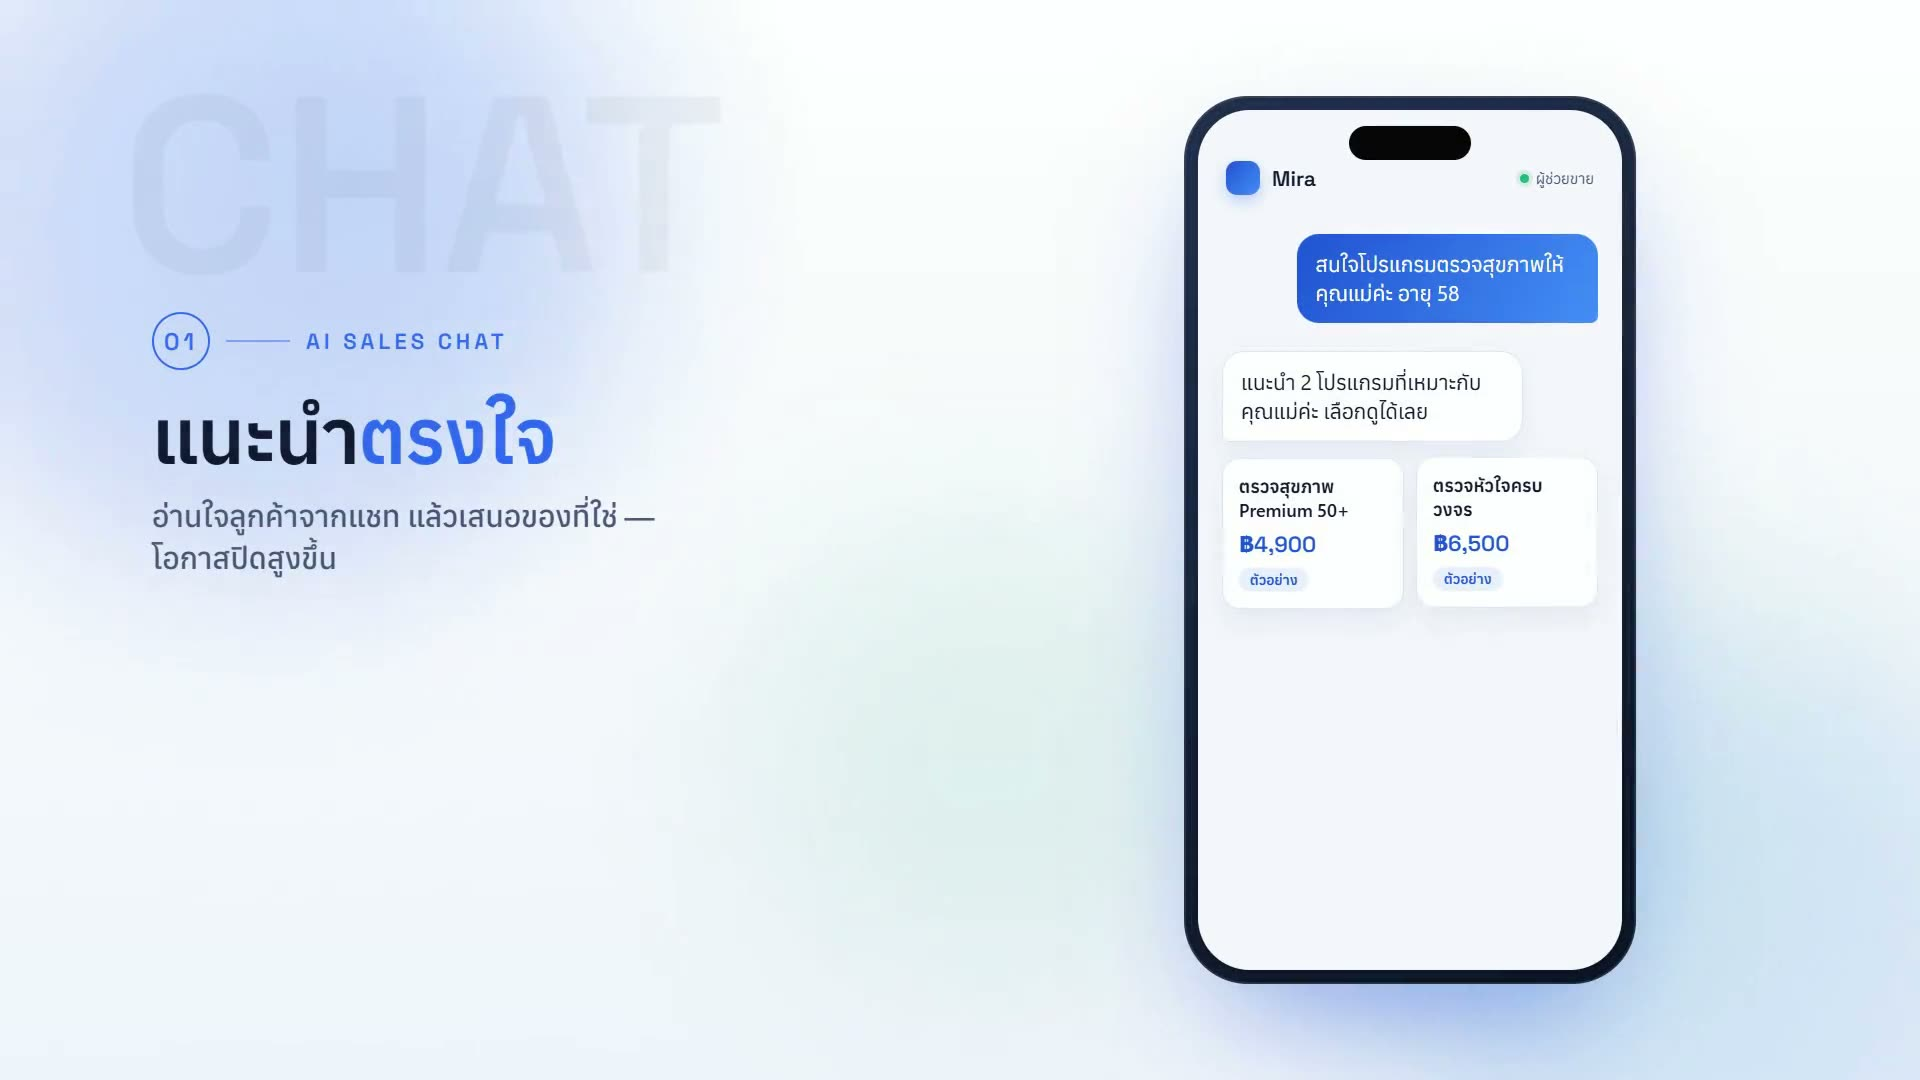
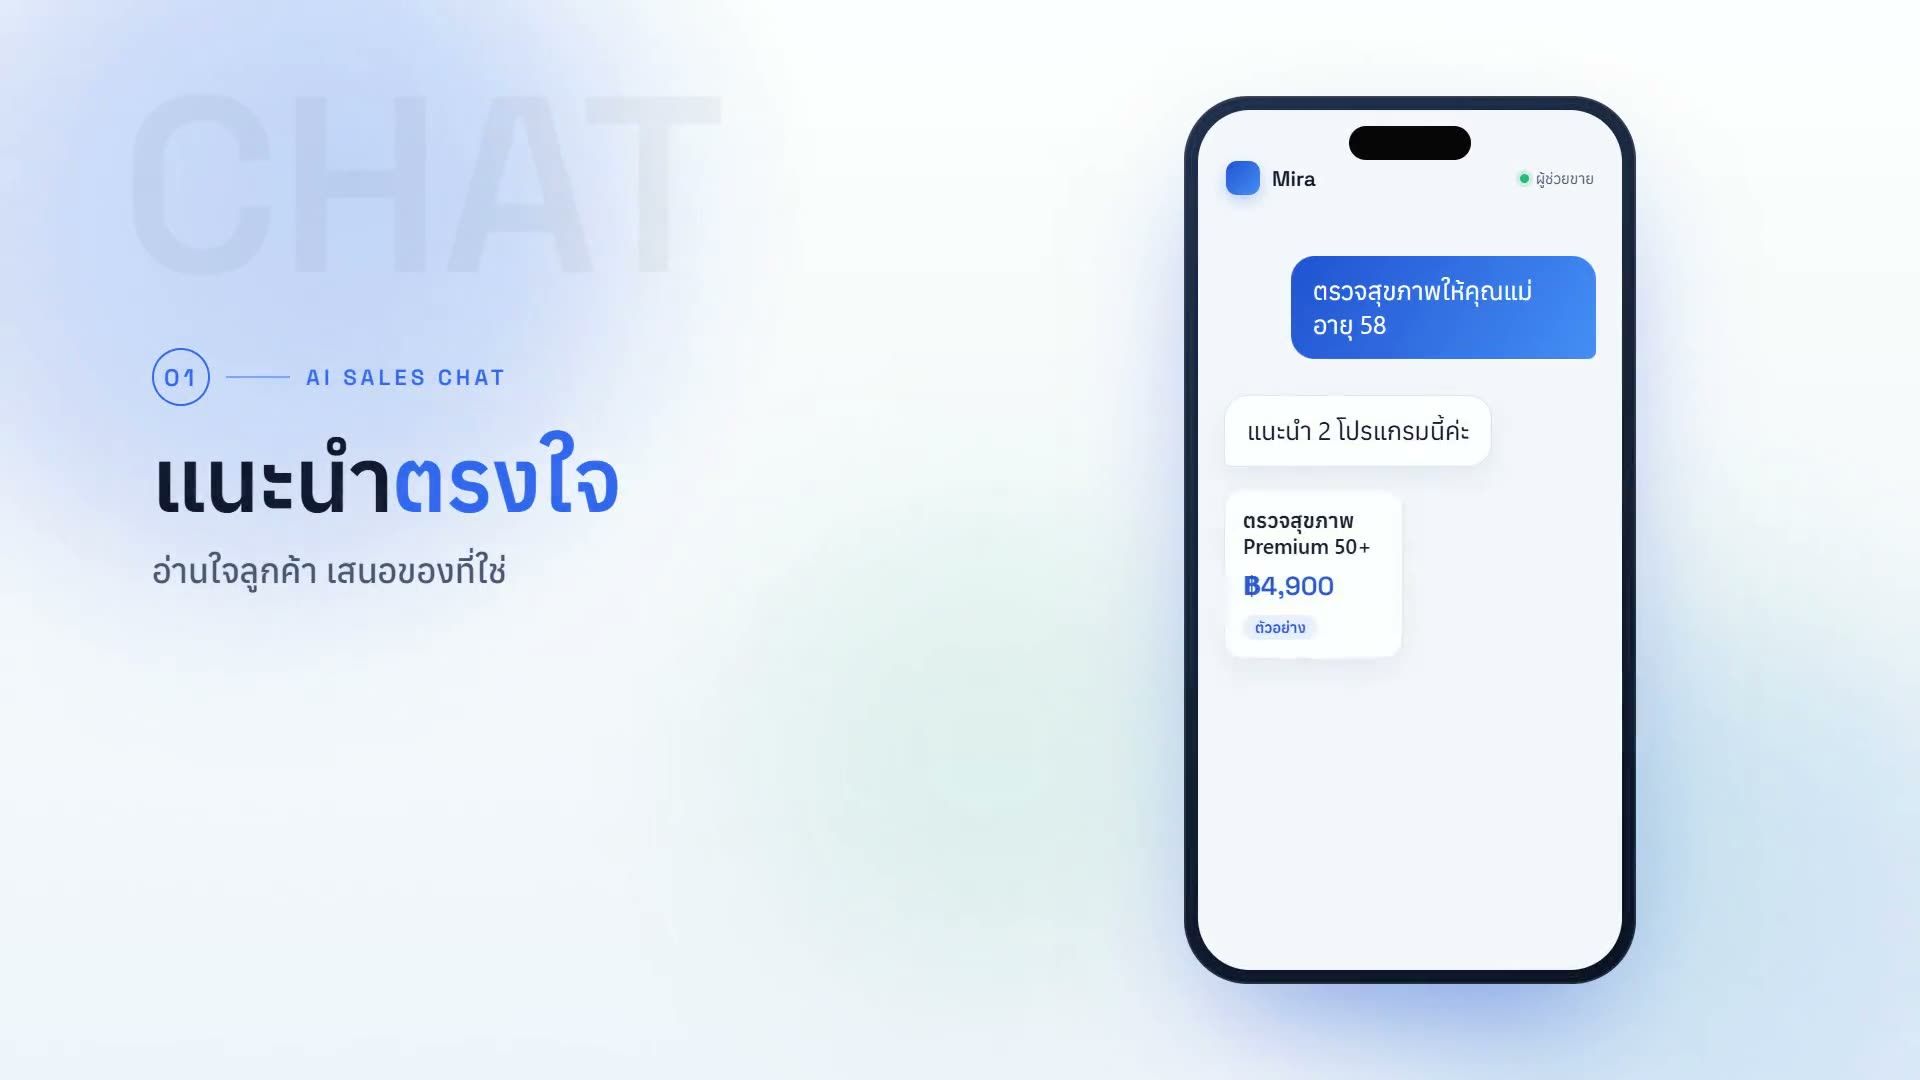
Trim section-2 video text to minimal + slow pacing 50% (16s->32s)
Owner feedback: on-screen phone copy was too dense to read and the clip ran too fast. Shortened the chat/order/catalog strings (dropped the extra pay bubble, cut verbose lines), bumped on-screen type sizes, and scaled the whole GSAP timeline x2 via an S factor so it reads at half speed. Re-rendered mp4 (791KB) + webm + poster (poster now at the recommend beat ~7.8s).

Changed region(s): [[0.0625, 0.3056, 0.3438, 0.55], [0.625, 0.2139, 0.8438, 0.6111], [0.75, 0.4278, 0.8125, 0.55]]

diff --git a/website/motion/compositions/ai-chat-story.html b/website/motion/compositions/ai-chat-story.html
@@ -33,19 +33,19 @@
         font-size: 250px; line-height: 0.8; letter-spacing: -2px; color: rgba(16, 26, 51, 0.045); pointer-events: none; }
 
       /* ---------- left story column ---------- */
-      .story { position: absolute; left: 152px; top: 312px; width: 660px; }
+      .story { position: absolute; left: 152px; top: 348px; width: 660px; }
       .step { position: absolute; left: 0; top: 0; width: 100%; }
       .step-kicker { display: flex; align-items: center; gap: 16px; font-family: 'Space Grotesk', sans-serif;
         font-weight: 600; letter-spacing: 4px; font-size: 22px; color: var(--brand); text-transform: uppercase; }
       .step-num { display: grid; place-items: center; width: 58px; height: 58px; border-radius: 50%;
         border: 2px solid var(--brand); color: var(--brand); font-size: 24px; }
       .step-rule { width: 64px; height: 2px; background: var(--brand); opacity: 0.5; }
-      .step-title { margin: 26px 0 0; font-size: 76px; line-height: 1.04; font-weight: 600; letter-spacing: -1px; }
+      .step-title { margin: 28px 0 0; font-size: 88px; line-height: 1.04; font-weight: 600; letter-spacing: -1px; }
       .step-title .hl { color: var(--brand); }
-      .step-sub { margin: 20px 0 0; font-size: 30px; line-height: 1.4; font-weight: 500; color: var(--ink-soft); width: 540px; }
+      .step-sub { margin: 22px 0 0; font-size: 34px; line-height: 1.35; font-weight: 500; color: var(--ink-soft); }
 
-      .payoff { position: absolute; left: 152px; top: 760px; display: flex; align-items: center; gap: 14px;
-        font-family: 'Space Grotesk', sans-serif; font-weight: 600; font-size: 26px; letter-spacing: 1px; color: var(--ink-soft); opacity: 0; }
+      .payoff { position: absolute; left: 152px; top: 792px; display: flex; align-items: center; gap: 14px;
+        font-family: 'Space Grotesk', sans-serif; font-weight: 600; font-size: 28px; letter-spacing: 1px; color: var(--ink-soft); opacity: 0; }
       .payoff b { color: var(--deep); }
 
       /* ---------- phone ---------- */
@@ -63,85 +63,85 @@
       .brand-status { margin-left: auto; display: inline-flex; align-items: center; gap: 7px; font-size: 15px; color: var(--ink-soft); }
       .live-dot { width: 9px; height: 9px; border-radius: 50%; background: var(--mint); box-shadow: 0 0 0 4px rgba(31, 170, 120, 0.18); }
 
-      .view { position: absolute; left: 0; top: 96px; width: 100%; height: 778px; padding: 14px 24px 26px; }
+      .view { position: absolute; left: 0; top: 110px; width: 100%; height: 764px; padding: 18px 26px 28px; }
       .view-pay, .view-catalog { opacity: 0; }
 
       /* chat */
-      .bubble { max-width: 80%; padding: 16px 18px; font-size: 21px; line-height: 1.36; border-radius: 22px; }
-      .bubble.user { margin-left: auto; color: #fff; background: linear-gradient(120deg, var(--deep), var(--bright)); border-bottom-right-radius: 7px; }
-      .bubble.mira { background: var(--surface); border: 1px solid var(--line); border-bottom-left-radius: 7px; box-shadow: 0 12px 26px rgba(34, 68, 134, 0.08); }
-      .row { display: flex; margin-top: 14px; }
-      .typing { display: inline-flex; gap: 7px; align-items: center; padding: 18px 20px; background: var(--surface); border: 1px solid var(--line); border-radius: 22px; border-bottom-left-radius: 7px; }
-      .typing i { width: 9px; height: 9px; border-radius: 50%; background: var(--muted); display: block; }
-      .products { display: grid; grid-template-columns: 1fr 1fr; gap: 12px; margin-top: 16px; }
-      .pcard { padding: 16px; border-radius: 18px; background: var(--surface); border: 1px solid var(--line); box-shadow: 0 12px 26px rgba(34, 68, 134, 0.08); }
-      .pcard .pname { font-size: 18px; font-weight: 600; line-height: 1.3; }
-      .pcard .pprice { margin-top: 8px; font-family: 'Space Grotesk', sans-serif; font-weight: 600; font-size: 22px; color: var(--deep); }
-      .badge { display: inline-block; margin-top: 10px; padding: 3px 11px; border-radius: 999px; font-size: 14px; font-weight: 600; background: var(--soft); color: var(--deep); }
+      .bubble { max-width: 82%; padding: 18px 22px; font-size: 25px; line-height: 1.34; border-radius: 24px; }
+      .bubble.user { margin-left: auto; color: #fff; background: linear-gradient(120deg, var(--deep), var(--bright)); border-bottom-right-radius: 8px; }
+      .bubble.mira { background: var(--surface); border: 1px solid var(--line); border-bottom-left-radius: 8px; box-shadow: 0 12px 26px rgba(34, 68, 134, 0.08); }
+      .row { display: flex; margin-top: 18px; }
+      .typing { display: inline-flex; gap: 8px; align-items: center; padding: 22px 24px; background: var(--surface); border: 1px solid var(--line); border-radius: 24px; border-bottom-left-radius: 8px; }
+      .typing i { width: 11px; height: 11px; border-radius: 50%; background: var(--muted); display: block; }
+      .products { display: grid; grid-template-columns: 1fr 1fr; gap: 14px; margin-top: 20px; }
+      .pcard { padding: 18px; border-radius: 20px; background: var(--surface); border: 1px solid var(--line); box-shadow: 0 12px 26px rgba(34, 68, 134, 0.08); }
+      .pcard .pname { font-size: 21px; font-weight: 600; line-height: 1.25; }
+      .pcard .pprice { margin-top: 10px; font-family: 'Space Grotesk', sans-serif; font-weight: 600; font-size: 26px; color: var(--deep); }
+      .badge { display: inline-block; margin-top: 12px; padding: 3px 12px; border-radius: 999px; font-size: 15px; font-weight: 600; background: var(--soft); color: var(--deep); }
 
       /* pay */
-      .order { margin-top: 8px; padding: 18px; border-radius: 22px; background: var(--surface); border: 1px solid var(--line); box-shadow: 0 16px 34px rgba(34, 68, 134, 0.1); display: grid; grid-template-columns: 1fr 124px; gap: 18px; align-items: center; }
-      .order .otitle { font-size: 21px; font-weight: 600; }
-      .order .oline { margin-top: 8px; font-size: 16px; color: var(--ink-soft); line-height: 1.5; }
-      .order .oamt { margin-top: 10px; font-family: 'Space Grotesk', sans-serif; font-weight: 600; font-size: 24px; color: var(--deep); }
-      .qr { width: 124px; height: 124px; border-radius: 16px; padding: 12px; background: var(--canvas); display: grid; place-items: center; }
+      .order { margin-top: 4px; padding: 22px; border-radius: 24px; background: var(--surface); border: 1px solid var(--line); box-shadow: 0 16px 34px rgba(34, 68, 134, 0.1); display: grid; grid-template-columns: 1fr 134px; gap: 20px; align-items: center; }
+      .order .otitle { font-size: 25px; font-weight: 600; }
+      .order .oline { margin-top: 10px; font-size: 19px; color: var(--ink-soft); line-height: 1.4; }
+      .order .oamt { margin-top: 12px; font-family: 'Space Grotesk', sans-serif; font-weight: 600; font-size: 30px; color: var(--deep); }
+      .qr { width: 134px; height: 134px; border-radius: 18px; padding: 13px; background: var(--canvas); display: grid; place-items: center; }
       .qr svg { width: 100%; height: 100%; }
-      .statuschip { margin-top: 18px; display: flex; align-items: center; justify-content: center; gap: 10px; padding: 14px; border-radius: 16px;
-        background: var(--mint-soft); color: var(--mint); border: 1px solid rgba(31, 170, 120, 0.4); font-size: 20px; font-weight: 600; }
-      .check { width: 28px; height: 28px; border-radius: 50%; background: var(--mint); color: #fff; display: grid; place-items: center; font-size: 17px; }
-      .toast { margin-top: 16px; padding: 14px 16px; border-radius: 16px; font-size: 18px; font-weight: 600; color: var(--deep);
+      .statuschip { margin-top: 22px; display: flex; align-items: center; justify-content: center; gap: 12px; padding: 18px; border-radius: 18px;
+        background: var(--mint-soft); color: var(--mint); border: 1px solid rgba(31, 170, 120, 0.4); font-size: 24px; font-weight: 600; }
+      .check { width: 32px; height: 32px; border-radius: 50%; background: var(--mint); color: #fff; display: grid; place-items: center; font-size: 19px; }
+      .toast { margin-top: 18px; padding: 16px 18px; border-radius: 18px; font-size: 21px; font-weight: 600; color: var(--deep);
         background: linear-gradient(110deg, rgba(46, 107, 246, 0.12), rgba(31, 170, 120, 0.16)); border: 1px solid rgba(31, 170, 120, 0.35); }
 
       /* catalog */
-      .cat-head { display: flex; align-items: center; gap: 12px; }
-      .cat-head .ctitle { font-size: 26px; font-weight: 600; }
-      .cat-pill { margin-left: auto; padding: 7px 15px; border-radius: 999px; font-size: 16px; font-weight: 600; color: var(--deep); background: var(--soft); }
-      .crow { margin-top: 14px; display: grid; grid-template-columns: 1fr auto auto; align-items: center; gap: 16px; padding: 18px; border-radius: 20px; background: var(--surface); border: 1px solid var(--line); box-shadow: 0 10px 22px rgba(34, 68, 134, 0.06); }
-      .crow .cname { font-size: 20px; font-weight: 600; }
-      .crow .cprice { font-family: 'Space Grotesk', sans-serif; font-weight: 600; font-size: 22px; color: var(--deep); }
+      .cat-head { display: flex; align-items: center; gap: 12px; margin-bottom: 6px; }
+      .cat-head .ctitle { font-size: 30px; font-weight: 600; }
+      .cat-pill { margin-left: auto; padding: 8px 16px; border-radius: 999px; font-size: 18px; font-weight: 600; color: var(--deep); background: var(--soft); }
+      .crow { margin-top: 18px; display: grid; grid-template-columns: 1fr auto auto; align-items: center; gap: 18px; padding: 22px; border-radius: 22px; background: var(--surface); border: 1px solid var(--line); box-shadow: 0 10px 22px rgba(34, 68, 134, 0.06); }
+      .crow .cname { font-size: 23px; font-weight: 600; }
+      .crow .cprice { font-family: 'Space Grotesk', sans-serif; font-weight: 600; font-size: 26px; color: var(--deep); }
       .crow.add { border-style: dashed; box-shadow: none; background: transparent; color: var(--muted); }
-      .crow.add .cname { color: var(--muted); display: flex; align-items: center; gap: 10px; }
-      .plus { width: 30px; height: 30px; border-radius: 9px; display: grid; place-items: center; background: var(--soft); color: var(--deep); font-size: 22px; font-weight: 600; }
-      .toggle { width: 56px; height: 32px; border-radius: 999px; background: var(--line); position: relative; }
+      .crow.add .cname { color: var(--muted); display: flex; align-items: center; gap: 12px; }
+      .plus { width: 34px; height: 34px; border-radius: 10px; display: grid; place-items: center; background: var(--soft); color: var(--deep); font-size: 26px; font-weight: 600; }
+      .toggle { width: 62px; height: 36px; border-radius: 999px; background: var(--line); position: relative; }
       .toggle.on { background: var(--brand); }
-      .toggle .knob { position: absolute; top: 3px; left: 3px; width: 26px; height: 26px; border-radius: 50%; background: #fff; box-shadow: 0 2px 6px rgba(0,0,0,0.18); }
-      .toggle.on .knob { left: 27px; }
+      .toggle .knob { position: absolute; top: 3px; left: 3px; width: 30px; height: 30px; border-radius: 50%; background: #fff; box-shadow: 0 2px 6px rgba(0,0,0,0.18); }
+      .toggle.on .knob { left: 29px; }
 
       /* tie-back arrow (catalog -> chat) */
-      .tieback { position: absolute; left: 800px; top: 300px; width: 420px; height: 360px; pointer-events: none; opacity: 0; }
+      .tieback { position: absolute; left: 800px; top: 320px; width: 420px; height: 360px; pointer-events: none; opacity: 0; }
       .tieback svg { width: 100%; height: 100%; overflow: visible; }
       .tieback path { fill: none; stroke: var(--brand); stroke-width: 3; stroke-dasharray: 7 9; stroke-linecap: round; }
-      .tieback .tiplabel { position: absolute; left: 60px; top: 150px; padding: 9px 16px; border-radius: 999px; background: var(--deep); color: #fff;
-        font-family: 'Space Grotesk', sans-serif; font-weight: 600; font-size: 19px; letter-spacing: 0.5px; box-shadow: 0 14px 30px rgba(29, 86, 219, 0.4); }
+      .tieback .tiplabel { position: absolute; left: 60px; top: 150px; padding: 11px 18px; border-radius: 999px; background: var(--deep); color: #fff;
+        font-family: 'Space Grotesk', sans-serif; font-weight: 600; font-size: 21px; letter-spacing: 0.5px; box-shadow: 0 14px 30px rgba(29, 86, 219, 0.4); }
     </style>
   </head>
   <body>
-    <div id="root" data-composition-id="ai-chat-story" data-width="1920" data-height="1080" data-start="0" data-duration="16">
+    <div id="root" data-composition-id="ai-chat-story" data-width="1920" data-height="1080" data-start="0" data-duration="32">
       <div class="glow a"></div>
       <div class="glow b"></div>
       <div class="glow c"></div>
       <div class="ghost" id="ghost">CHAT</div>
 
-      <!-- left story -->
+      <!-- left story (minimal) -->
       <div class="story">
         <div class="step" id="step-1">
           <div class="step-kicker"><span class="step-num">01</span><span class="step-rule"></span>AI SALES CHAT</div>
           <h2 class="step-title">แนะนำ<span class="hl">ตรงใจ</span></h2>
-          <p class="step-sub">อ่านใจลูกค้าจากแชท แล้วเสนอของที่ใช่ — โอกาสปิดสูงขึ้น</p>
+          <p class="step-sub">อ่านใจลูกค้า เสนอของที่ใช่</p>
         </div>
         <div class="step" id="step-2" style="opacity:0">
           <div class="step-kicker"><span class="step-num">02</span><span class="step-rule"></span>CLOSE IN CHAT</div>
           <h2 class="step-title">ปิดการขาย<span class="hl">ในแชท</span></h2>
-          <p class="step-sub">เลือกของ จ่าย QR จบในแชทเดียว ไม่มีจังหวะให้เปลี่ยนใจ</p>
+          <p class="step-sub">จ่าย QR จบในแชท</p>
         </div>
         <div class="step" id="step-3" style="opacity:0">
           <div class="step-kicker"><span class="step-num">03</span><span class="step-rule"></span>YOU'RE IN CONTROL</div>
           <h2 class="step-title">ข้อมูลคุณ <span class="hl">คุมเองได้</span></h2>
-          <p class="step-sub">แก้สินค้า เปลี่ยนราคาเมื่อไหร่ AI รู้ทันที ไม่ต้องรอใคร</p>
+          <p class="step-sub">แก้ราคา-สินค้า AI รู้ทันที</p>
         </div>
       </div>
 
-      <div class="payoff" id="payoff">1 แชท · <b>แนะนำ → ปิดการขาย → คุมเอง</b></div>
+      <div class="payoff" id="payoff">แนะนำ <b>→</b> ปิดการขาย <b>→</b> คุมเอง</div>
 
       <!-- tie-back arrow -->
       <div class="tieback" id="tieback">
@@ -161,9 +161,9 @@
 
           <!-- view 1: chat -->
           <section class="view view-chat" id="view-chat">
-            <div class="row"><div class="bubble user" id="c-user">สนใจโปรแกรมตรวจสุขภาพให้คุณแม่ค่ะ อายุ 58</div></div>
+            <div class="row"><div class="bubble user" id="c-user">ตรวจสุขภาพให้คุณแม่ อายุ 58</div></div>
             <div class="row"><div class="typing" id="c-typing"><i></i><i></i><i></i></div></div>
-            <div class="row"><div class="bubble mira" id="c-mira" style="opacity:0">แนะนำ 2 โปรแกรมที่เหมาะกับคุณแม่ค่ะ เลือกดูได้เลย</div></div>
+            <div class="row"><div class="bubble mira" id="c-mira" style="opacity:0">แนะนำ 2 โปรแกรมนี้ค่ะ</div></div>
             <div class="products">
               <div class="pcard" id="c-p1"><div class="pname">ตรวจสุขภาพ Premium 50+</div><div class="pprice">฿4,900</div><span class="badge">ตัวอย่าง</span></div>
               <div class="pcard" id="c-p2"><div class="pname">ตรวจหัวใจครบวงจร</div><div class="pprice">฿6,500</div><span class="badge">ตัวอย่าง</span></div>
@@ -172,12 +172,11 @@
 
           <!-- view 2: pay -->
           <section class="view view-pay" id="view-pay">
-            <div class="row"><div class="bubble mira" id="p-mira">สรุปรายการให้แล้ว ชำระผ่าน PromptPay ได้เลยค่ะ</div></div>
             <div class="order" id="p-order">
               <div>
                 <div class="otitle">ตรวจสุขภาพ Premium 50+</div>
-                <div class="oline">สาขาลาดพร้าว · พรุ่งนี้ 09:30 น.</div>
-                <div class="oamt">฿4,900 · PromptPay</div>
+                <div class="oline">ลาดพร้าว · พรุ่งนี้ 09:30</div>
+                <div class="oamt">฿4,900</div>
               </div>
               <div class="qr">
                 <svg viewBox="0 0 100 100" aria-hidden="true">
@@ -194,8 +193,8 @@
                 </svg>
               </div>
             </div>
-            <div class="statuschip" id="p-status"><span class="check">✓</span>ชำระเงินแล้ว · ยืนยันนัดหมาย</div>
-            <div class="toast" id="p-toast">ส่วนแบ่งผู้แนะนำ +฿350 → คุณหมอนก (ตัวอย่าง)</div>
+            <div class="statuschip" id="p-status"><span class="check">✓</span>ชำระเงินแล้ว</div>
+            <div class="toast" id="p-toast">ส่วนแบ่ง +฿350 (ตัวอย่าง)</div>
           </section>
 
           <!-- view 3: catalog -->
@@ -203,7 +202,7 @@
             <div class="cat-head"><span class="ctitle">แคตตาล็อกสินค้า</span><span class="cat-pill">แก้ได้ตลอด</span></div>
             <div class="crow" id="cat-r1"><span class="cname">ตรวจสุขภาพ Premium 50+</span><span class="cprice" id="cat-price">฿4,900</span><span class="toggle on"><span class="knob"></span></span></div>
             <div class="crow" id="cat-r2"><span class="cname">วัคซีนไข้หวัดใหญ่</span><span class="cprice">฿890</span><span class="toggle on"><span class="knob"></span></span></div>
-            <div class="crow add" id="cat-r3"><span class="cname"><span class="plus">+</span>เพิ่มแพ็กเกจใหม่ของคุณ…</span><span class="cprice"></span><span class="toggle" id="cat-toggle"><span class="knob"></span></span></div>
+            <div class="crow add" id="cat-r3"><span class="cname"><span class="plus">+</span>เพิ่มแพ็กเกจใหม่…</span><span class="cprice"></span><span class="toggle" id="cat-toggle"><span class="knob"></span></span></div>
           </section>
         </div>
       </div>
@@ -211,86 +210,86 @@
       <script src="../vendor/gsap.min.js"></script>
       <script>
         const fmt = (n) => '฿' + Math.round(n).toString().replace(/\B(?=(\d{3})+(?!\d))/g, ',');
+        // Global slow-mo: author at native tempo, multiply every time by S (= 50% slower).
+        const S = 2;
+        const d = (v) => v * S;   // scale a duration / stagger
+        const at = (v) => v * S;  // scale a position on the timeline
         const tl = gsap.timeline({ paused: true, defaults: { ease: 'power3.out' } });
 
-        /* ambient: slow breathing glows over the whole 16s (returns to start = loop-safe) */
-        tl.to('.glow.a', { x: 80, y: 60, duration: 8, yoyo: true, repeat: 1, ease: 'sine.inOut' }, 0)
-          .to('.glow.b', { x: -70, y: -50, duration: 8, yoyo: true, repeat: 1, ease: 'sine.inOut' }, 0)
-          .to('.glow.c', { scale: 1.12, duration: 8, yoyo: true, repeat: 1, ease: 'sine.inOut' }, 0);
+        /* ambient: slow breathing glows across the whole clip (returns to start = loop-safe) */
+        tl.to('.glow.a', { x: 80, y: 60, duration: d(8), yoyo: true, repeat: 1, ease: 'sine.inOut' }, at(0))
+          .to('.glow.b', { x: -70, y: -50, duration: d(8), yoyo: true, repeat: 1, ease: 'sine.inOut' }, at(0))
+          .to('.glow.c', { scale: 1.12, duration: d(8), yoyo: true, repeat: 1, ease: 'sine.inOut' }, at(0));
 
         /* phone floats in */
-        tl.from('.phone', { y: 780, scale: 0.84, rotation: -2, opacity: 0, duration: 0.78, ease: 'back.out(1.5)' }, 0.1)
-          .from('.topbar', { y: 14, opacity: 0, duration: 0.4 }, 0.5);
+        tl.from('.phone', { y: 780, scale: 0.84, rotation: -2, opacity: 0, duration: d(0.78), ease: 'back.out(1.5)' }, at(0.1))
+          .from('.topbar', { y: 14, opacity: 0, duration: d(0.4) }, at(0.5));
 
-        /* ===== STEP 1 — recommend (0.6 - 5.0) ===== */
-        tl.from('#step-1 .step-kicker', { y: 24, opacity: 0, duration: 0.5 }, 0.55)
-          .from('#step-1 .step-title', { y: 30, opacity: 0, duration: 0.55 }, 0.68)
-          .from('#step-1 .step-sub', { y: 20, opacity: 0, duration: 0.5 }, 0.85)
-          .from('#c-user', { y: 26, opacity: 0, duration: 0.45, ease: 'back.out(1.4)' }, 1.1);
+        /* ===== STEP 1 — recommend ===== */
+        tl.from('#step-1 .step-kicker', { y: 24, opacity: 0, duration: d(0.5) }, at(0.55))
+          .from('#step-1 .step-title', { y: 30, opacity: 0, duration: d(0.55) }, at(0.68))
+          .from('#step-1 .step-sub', { y: 20, opacity: 0, duration: d(0.5) }, at(0.85))
+          .from('#c-user', { y: 26, opacity: 0, duration: d(0.45), ease: 'back.out(1.4)' }, at(1.1));
 
-        /* typing dots bob, then swap to Mira reply */
-        tl.to('#c-typing i', { y: -5, duration: 0.26, yoyo: true, repeat: 5, stagger: 0.1, ease: 'sine.inOut' }, 1.7)
-          .to('#c-typing', { opacity: 0, scale: 0.9, duration: 0.2 }, 2.7)
-          .set('#c-typing', { display: 'none' }, 2.9)
-          .to('#c-mira', { opacity: 1, y: 0, duration: 0.45, ease: 'back.out(1.4)' }, 2.9)
-          .from('#c-mira', { y: 24, duration: 0.45 }, 2.9);
+        tl.to('#c-typing i', { y: -5, duration: d(0.26), yoyo: true, repeat: 7, stagger: d(0.1), ease: 'sine.inOut' }, at(1.7))
+          .to('#c-typing', { opacity: 0, scale: 0.9, duration: d(0.2) }, at(3.0))
+          .set('#c-typing', { display: 'none' }, at(3.2))
+          .to('#c-mira', { opacity: 1, y: 0, duration: d(0.45), ease: 'back.out(1.4)' }, at(3.2))
+          .from('#c-mira', { y: 24, duration: d(0.45) }, at(3.2));
 
-        tl.from('#c-p1', { y: 40, opacity: 0, duration: 0.5, ease: 'back.out(1.3)' }, 3.35)
-          .from('#c-p2', { y: 40, opacity: 0, duration: 0.5, ease: 'back.out(1.3)' }, 3.5)
-          .to('#ghost', { duration: 0.001 }, 0); // keep ghost = CHAT for step 1
+        tl.from('#c-p1', { y: 40, opacity: 0, duration: d(0.5), ease: 'back.out(1.3)' }, at(3.7))
+          .from('#c-p2', { y: 40, opacity: 0, duration: d(0.5), ease: 'back.out(1.3)' }, at(3.9));
 
-        /* ===== transition 1 -> 2 (5.0 - 5.7) ===== */
-        tl.to('#step-1', { y: -24, opacity: 0, duration: 0.4 }, 5.0)
-          .to('#view-chat', { x: -70, opacity: 0, duration: 0.5, ease: 'power2.in' }, 5.05)
-          .set('#ghost', { textContent: 'CLOSE' }, 5.3)
-          .fromTo('#step-2', { y: 24, opacity: 0 }, { y: 0, opacity: 1, duration: 0.5 }, 5.35)
-          .fromTo('#view-pay', { x: 80, opacity: 0 }, { x: 0, opacity: 1, duration: 0.55, ease: 'power3.out' }, 5.4);
+        /* ===== transition 1 -> 2 ===== */
+        tl.to('#step-1', { y: -24, opacity: 0, duration: d(0.4) }, at(5.6))
+          .to('#view-chat', { x: -70, opacity: 0, duration: d(0.5), ease: 'power2.in' }, at(5.65))
+          .set('#ghost', { textContent: 'CLOSE' }, at(5.9))
+          .fromTo('#step-2', { y: 24, opacity: 0 }, { y: 0, opacity: 1, duration: d(0.5) }, at(5.95))
+          .fromTo('#view-pay', { x: 80, opacity: 0 }, { x: 0, opacity: 1, duration: d(0.55), ease: 'power3.out' }, at(6.0));
 
-        /* ===== STEP 2 — close the sale (5.7 - 9.2) ===== */
-        tl.from('#p-mira', { y: 24, opacity: 0, duration: 0.45 }, 5.9)
-          .from('#p-order', { y: 40, scale: 0.95, opacity: 0, duration: 0.5, ease: 'back.out(1.3)' }, 6.3)
-          .from('.qr svg', { scale: 0.6, opacity: 0, transformOrigin: '50% 50%', duration: 0.5, ease: 'back.out(1.6)' }, 6.6)
-          .fromTo('#p-status', { y: 26, scale: 0.92, opacity: 0 }, { y: 0, scale: 1, opacity: 1, duration: 0.5, ease: 'back.out(1.6)' }, 7.5)
-          .to('#p-status', { scale: 1.04, duration: 0.16, yoyo: true, repeat: 1 }, 8.0)
-          .from('#p-toast', { y: 24, opacity: 0, duration: 0.45, ease: 'back.out(1.4)' }, 8.3);
+        /* ===== STEP 2 — close the sale ===== */
+        tl.from('#p-order', { y: 40, scale: 0.95, opacity: 0, duration: d(0.5), ease: 'back.out(1.3)' }, at(6.5))
+          .from('.qr svg', { scale: 0.6, opacity: 0, transformOrigin: '50% 50%', duration: d(0.5), ease: 'back.out(1.6)' }, at(6.9))
+          .fromTo('#p-status', { y: 26, scale: 0.92, opacity: 0 }, { y: 0, scale: 1, opacity: 1, duration: d(0.5), ease: 'back.out(1.6)' }, at(7.9))
+          .to('#p-status', { scale: 1.04, duration: d(0.16), yoyo: true, repeat: 1 }, at(8.4))
+          .from('#p-toast', { y: 24, opacity: 0, duration: d(0.45), ease: 'back.out(1.4)' }, at(8.7));
 
-        /* ===== transition 2 -> 3 (9.2 - 9.9) ===== */
-        tl.to('#step-2', { y: -24, opacity: 0, duration: 0.4 }, 9.2)
-          .to('#view-pay', { x: -70, opacity: 0, duration: 0.5, ease: 'power2.in' }, 9.25)
-          .set('#ghost', { textContent: 'CONTROL' }, 9.5)
-          .fromTo('#step-3', { y: 24, opacity: 0 }, { y: 0, opacity: 1, duration: 0.5 }, 9.55)
-          .fromTo('#view-catalog', { x: 80, opacity: 0 }, { x: 0, opacity: 1, duration: 0.55, ease: 'power3.out' }, 9.6);
+        /* ===== transition 2 -> 3 ===== */
+        tl.to('#step-2', { y: -24, opacity: 0, duration: d(0.4) }, at(10.0))
+          .to('#view-pay', { x: -70, opacity: 0, duration: d(0.5), ease: 'power2.in' }, at(10.05))
+          .set('#ghost', { textContent: 'CONTROL' }, at(10.3))
+          .fromTo('#step-3', { y: 24, opacity: 0 }, { y: 0, opacity: 1, duration: d(0.5) }, at(10.35))
+          .fromTo('#view-catalog', { x: 80, opacity: 0 }, { x: 0, opacity: 1, duration: d(0.55), ease: 'power3.out' }, at(10.4));
 
-        /* ===== STEP 3 — control your data (9.9 - 13.6) ===== */
-        tl.from('.cat-head', { y: 22, opacity: 0, duration: 0.4 }, 10.0)
-          .from('#cat-r1', { y: 34, opacity: 0, duration: 0.45, ease: 'back.out(1.3)' }, 10.2)
-          .from('#cat-r2', { y: 34, opacity: 0, duration: 0.45, ease: 'back.out(1.3)' }, 10.35)
-          .from('#cat-r3', { y: 34, opacity: 0, duration: 0.45, ease: 'back.out(1.3)' }, 10.5);
+        /* ===== STEP 3 — control your data ===== */
+        tl.from('.cat-head', { y: 22, opacity: 0, duration: d(0.4) }, at(10.9))
+          .from('#cat-r1', { y: 34, opacity: 0, duration: d(0.45), ease: 'back.out(1.3)' }, at(11.1))
+          .from('#cat-r2', { y: 34, opacity: 0, duration: d(0.45), ease: 'back.out(1.3)' }, at(11.25))
+          .from('#cat-r3', { y: 34, opacity: 0, duration: d(0.45), ease: 'back.out(1.3)' }, at(11.4));
 
-        /* live edit: price drops, highlight, toggle flips on, add-row settles */
+        /* live edit: price drops, highlight, toggle flips on */
         const priceProxy = { v: 4900 };
-        tl.to('#cat-r1', { boxShadow: '0 0 0 2px rgba(46,107,246,0.55)', duration: 0.2 }, 11.1)
-          .to(priceProxy, { v: 4500, duration: 0.6, ease: 'power2.inOut', onUpdate: () => { document.getElementById('cat-price').textContent = fmt(priceProxy.v); } }, 11.15)
-          .to('#cat-price', { scale: 1.18, color: '#1faa78', transformOrigin: '100% 50%', duration: 0.2, yoyo: true, repeat: 1 }, 11.2)
-          .to('#cat-r1', { boxShadow: '0 10px 22px rgba(34,68,134,0.06)', duration: 0.4 }, 11.9)
-          .to('#cat-toggle', { backgroundColor: '#2e6bf6', duration: 0.2 }, 12.1)
-          .to('#cat-toggle .knob', { x: 24, duration: 0.26, ease: 'back.out(2)' }, 12.1)
-          .to('#cat-r3', { color: '#101a33', borderColor: '#dde5f4', duration: 0.3 }, 12.15);
+        tl.to('#cat-r1', { boxShadow: '0 0 0 2px rgba(46,107,246,0.55)', duration: d(0.25) }, at(12.2))
+          .to(priceProxy, { v: 4500, duration: d(0.7), ease: 'power2.inOut', onUpdate: () => { document.getElementById('cat-price').textContent = fmt(priceProxy.v); } }, at(12.25))
+          .to('#cat-price', { scale: 1.18, color: '#1faa78', transformOrigin: '100% 50%', duration: d(0.25), yoyo: true, repeat: 1 }, at(12.3))
+          .to('#cat-r1', { boxShadow: '0 10px 22px rgba(34,68,134,0.06)', duration: d(0.4) }, at(13.1))
+          .to('#cat-toggle', { backgroundColor: '#2e6bf6', duration: d(0.2) }, at(13.3))
+          .to('#cat-toggle .knob', { x: 26, duration: d(0.26), ease: 'back.out(2)' }, at(13.3))
+          .to('#cat-r3', { color: '#101a33', borderColor: '#dde5f4', duration: d(0.3) }, at(13.35));
 
         /* tie-back: edits feed straight back into the chat */
-        tl.fromTo('#tieback', { opacity: 0 }, { opacity: 1, duration: 0.4 }, 12.5)
-          .fromTo('#tiepath', { strokeDashoffset: 520, strokeDasharray: '520' }, { strokeDashoffset: 0, duration: 0.9, ease: 'power2.inOut' }, 12.5)
-          .from('.tiplabel', { scale: 0.6, opacity: 0, duration: 0.4, ease: 'back.out(1.7)', transformOrigin: '0% 50%' }, 12.9);
+        tl.fromTo('#tieback', { opacity: 0 }, { opacity: 1, duration: d(0.4) }, at(13.8))
+          .fromTo('#tiepath', { strokeDashoffset: 520, strokeDasharray: '520' }, { strokeDashoffset: 0, duration: d(0.9), ease: 'power2.inOut' }, at(13.8))
+          .from('.tiplabel', { scale: 0.6, opacity: 0, duration: d(0.4), ease: 'back.out(1.7)', transformOrigin: '0% 50%' }, at(14.2));
 
         /* payoff line */
-        tl.fromTo('#payoff', { y: 18, opacity: 0 }, { y: 0, opacity: 1, duration: 0.5 }, 13.2)
-          .to('.phone', { scale: 1.02, duration: 0.3, yoyo: true, repeat: 1, ease: 'sine.inOut' }, 13.3);
+        tl.fromTo('#payoff', { y: 18, opacity: 0 }, { y: 0, opacity: 1, duration: d(0.5) }, at(14.6))
+          .to('.phone', { scale: 1.02, duration: d(0.3), yoyo: true, repeat: 1, ease: 'sine.inOut' }, at(14.7));
 
-        /* ===== resolve to a clean loop seam (14.4 - 16) ===== */
-        tl.to(['#tieback', '#payoff', '#step-3', '#view-catalog'], { opacity: 0, duration: 0.5 }, 14.6)
-          .to('.phone', { y: 80, scale: 0.9, opacity: 0, duration: 0.8, ease: 'power2.in' }, 14.8)
-          .set('#ghost', { textContent: 'CHAT' }, 15.6)
-          .to('#ghost', { opacity: 1, duration: 0.001 }, 15.6);
+        /* ===== resolve to a clean loop seam ===== */
+        tl.to(['#tieback', '#payoff', '#step-3', '#view-catalog'], { opacity: 0, duration: d(0.5) }, at(15.3))
+          .to('.phone', { y: 80, scale: 0.9, opacity: 0, duration: d(0.8), ease: 'power2.in' }, at(15.5))
+          .set('#ghost', { textContent: 'CHAT' }, at(16.0));
 
         window.__timelines = window.__timelines || {};
         window.__timelines['ai-chat-story'] = tl;